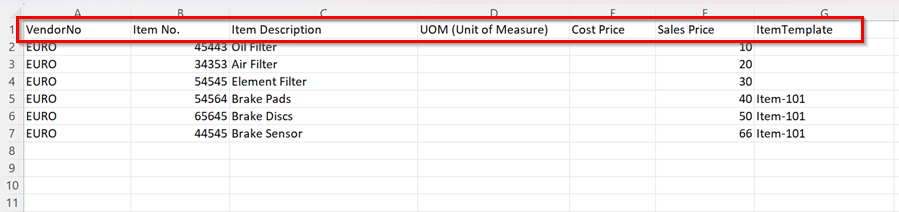
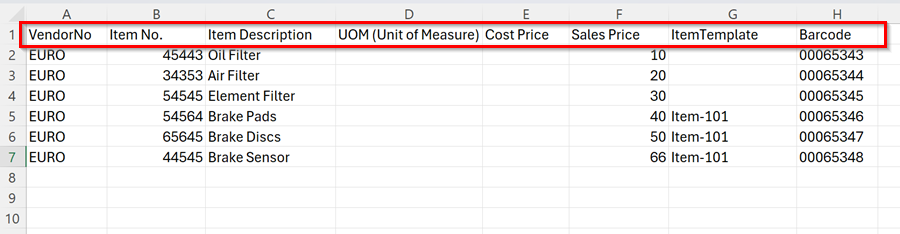
import with barcode

diff --git a/docs/garagehive-import-catalogue-items-with-prices.md b/docs/garagehive-import-catalogue-items-with-prices.md
@@ -1,12 +1,12 @@
 ---
 layout: docs
-title: Importing Catalogue Items with Prices in Garage Hive
+title: Importing Catalogue Items with Prices and Barcodes in Garage Hive
 ---
 
 <a name="top"></a>
 
-# Importing Catalogue Items with Prices in Garage Hive
-This feature enables garages to import catalogue items along with their prices in Garage Hive. This ensures that the catalogue list is updated with new items and that existing item prices and descriptions are up-to-date. This feature also makes it easy to quickly add catalogue items to the inventory with the updated prices, which streamlines the inventory management process. To import the catalogue items with prices:
+# Importing Catalogue Items with Prices and Barcodes in Garage Hive
+This feature enables garages to import catalogue items along with their prices and barcode in Garage Hive. This ensures that the catalogue list is updated with new items and that existing item prices and descriptions are up-to-date. This feature also makes it easy to quickly add catalogue items to the inventory with the updated prices, which streamlines the inventory management process. To import the catalogue items with prices:
 
 1. Start by downloading the Excel template (CSV format) below, which you will use to add all the items you wish to add in the system.
 
@@ -23,6 +23,7 @@ This feature enables garages to import catalogue items along with their prices i
    * **Cost Price** - Optional, but useful for tracking item costs.
    * **Sales Price** - This field must be filled, so that the item prices are updated.
    * **Item Template** - Optional. If filled, ensure you copy the code from the **Item Template** within the system. Search for **Item Templates** in the ![](media/search_icon.png) icon, located at the top right corner of your screen.
+   * **Barcode** - Optional. This field should be used to enter the barcode number of the item.
 
       ![](media/garagehive-import-catalogue-items-with-prices2.png)
 
